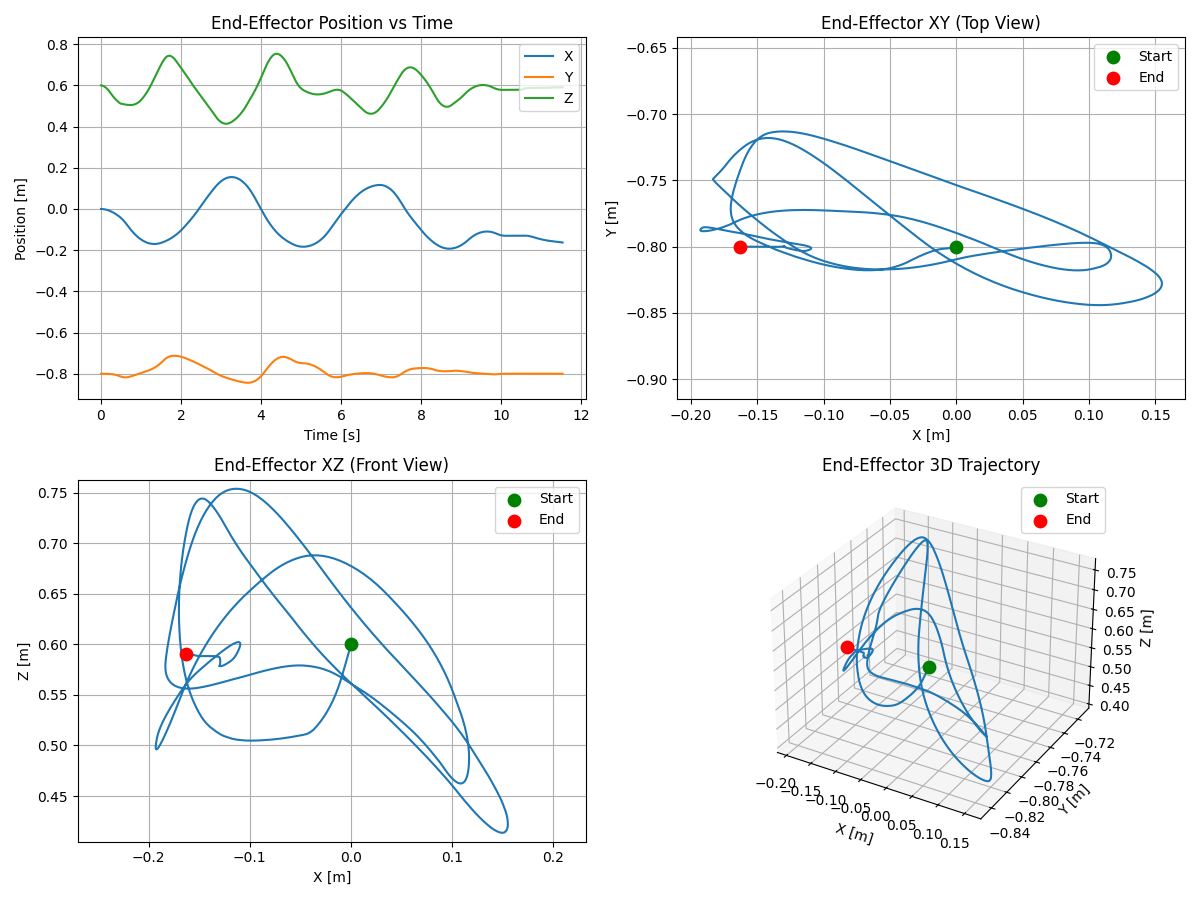
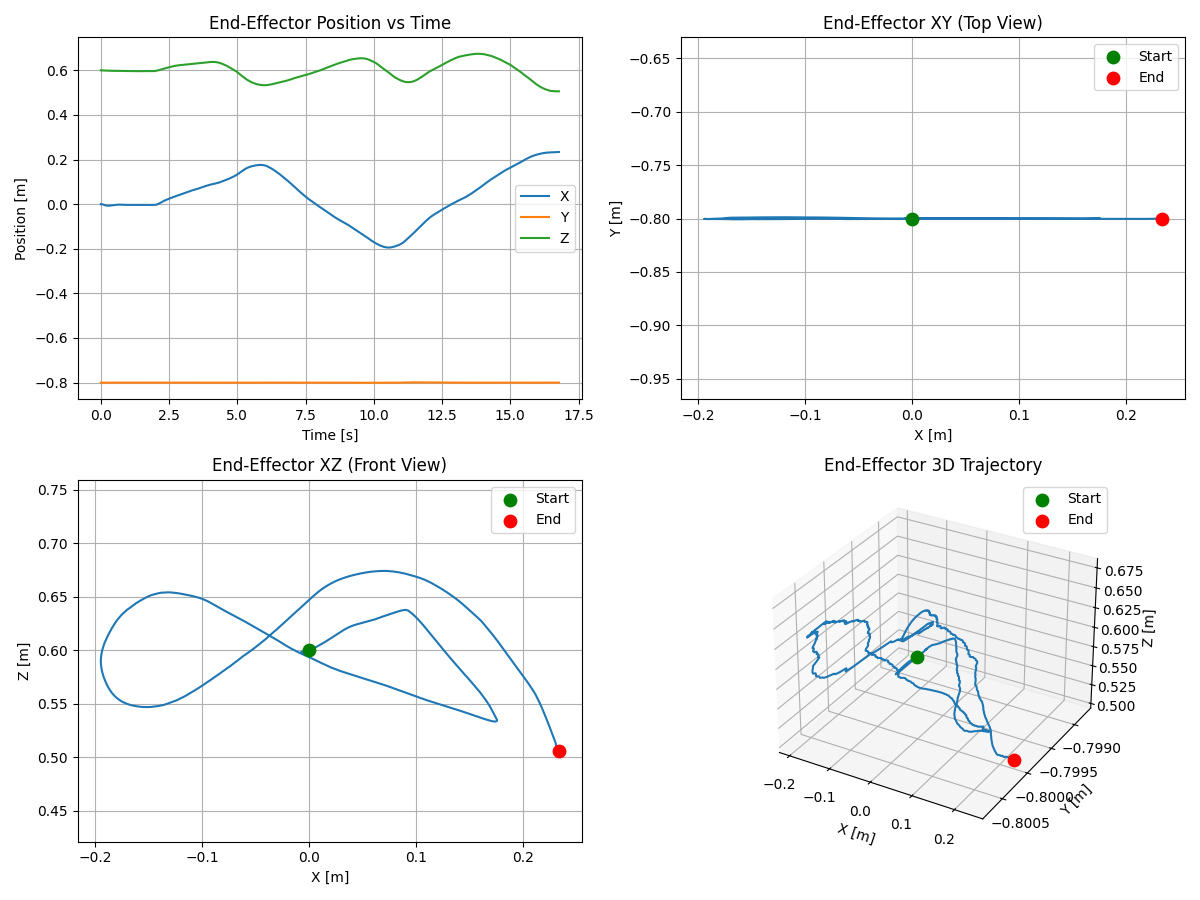
changed mpc solver to be faster

diff --git a/src/mpc.py b/src/mpc.py
@@ -163,38 +163,28 @@ class MPC(object):
         self.con_ub = ca.vertcat(con_eq_ub, *con_ineq_ub)
 
         # Build NLP Solver (can also solve QP)
-        nlp = dict(x=opt_var, f=obj, g=con, p=param_s)
-        options = {
-            'ipopt.print_level': 0,
-            'print_time': False,
-            'verbose': False,
-            # 'expand': True
+        solver_dict = dict(x=opt_var, f=obj, g=con, p=param_s)
+        qp_opts = {
+            'max_iter': 20,
+            'error_on_fail': False,
+            'print_header': False,
+            'print_iter': False
         }
-        # EXTRA: explore these options!
-        # qp_opts = {
-        #     'max_iter': 10,
-        #     'error_on_fail': False,
-        #     'print_header': False,
-        #     'print_iter': False
-        # }
-        # options = {
-        #     'max_iter': 3,
-        #     'qpsol': 'qrqp',
-        #     "jit": False,
-        #     "jit_options": {'compiler': 'ccache gcc',
-        #                     'flags': ["-O2", "-pipe"]},
-        #     'compiler': 'shell',
-        #     # 'convexify_strategy': '',
-        #     'convexify_margin': 1e-5,
-        #     'jit_temp_suffix': False,
-        #     'print_header': False,
-        #     'print_time': False,
-        #     'print_iteration': False,
-        #     'qpsol_options': qp_opts
-        # }
+
+        options = {
+            'max_iter': 5,
+            'qpsol': 'qrqp',
+            'qpsol_options': qp_opts,
+            'convexify_margin': 1e-4,
+            'print_header': False,
+            'print_iteration': False,
+            'print_status': False,
+            'print_time': False,
+            'error_on_fail': False,
+        }
         if solver_opts is not None:
             options.update(solver_opts)
-        self.solver = ca.nlpsol('mpc_solver', 'ipopt', nlp, options)
+        self.solver = ca.nlpsol('mpc_solver', 'sqpmethod', solver_dict, options)
 
         # u_ref_solver initialization
         u_ref_i = ca.MX.sym('u_ref_i', self.Nu)
@@ -203,11 +193,8 @@ class MPC(object):
         err = self.dynamics(x_ref_i, u_ref_i) - x_ref_i_next
         J = ca.dot(err, err)
 
-        nlp = {'x': u_ref_i, 'f': J, 'p': ca.vertcat(x_ref_i, x_ref_i_next)}
-        self.u_ref_solver = ca.nlpsol('u_ref_solver', 'ipopt', nlp, {
-            'ipopt.print_level': 0,
-            'print_time': False
-        })
+        solver_dict = {'x': u_ref_i, 'f': J, 'p': ca.vertcat(x_ref_i, x_ref_i_next)}
+        self.u_ref_solver = ca.nlpsol('u_ref_solver', 'sqpmethod', solver_dict, options)
 
         build_solver_time += time.time()
         print('\n________________________________________')

diff --git a/src/combined_main.py b/src/combined_main.py
@@ -21,7 +21,7 @@ except ImportError:
 
 # TODO: MODIFY ALL THE PARAMETERS BELOW BEFORE TESTING
 SAMPLING_RATE = 50 # Hz
-MPC_HORIZON = SAMPLING_RATE // 25 # sec = horizon_samples / sampling_rate
+MPC_HORIZON = SAMPLING_RATE // 3 # sec = horizon_samples / sampling_rate
 # The workspace offset MUST place the robot away from wrist singularities.
 # [0.5, 0.5, 0.5, 0, 0, 0] has zero rotation which aligns wrist axes (singular).
 # Adding a small rotation breaks the singularity and makes IK stable.
@@ -32,7 +32,7 @@ WORKSPACE_OFFSET = pose6_to_T([0, -0.8, 0.6, np.pi/2, 0.05, 0.05])
 #   Joints 0-1 (base, shoulder): 2.094 rad/s  (120 deg/s)
 #   Joints 2-5 (elbow, wrists):  3.142 rad/s  (180 deg/s)
 # Working limits (conservative for safety):
-VJ = 0.7   # rad/s  -- uniform working velocity limit for MPC
+VJ = 0.9   # rad/s  -- uniform working velocity limit for MPC
 AJ = 1   # rad/s² -- uniform working acceleration limit for MPC
 
 # Per-joint working velocity limits (rad/s).

diff --git a/src/tracking.py b/src/tracking.py
@@ -706,7 +706,6 @@ class GUI:
 
             T = self.local_pose_to_base_transform(position)
             joints = self._ik_robot.IK("elbow_up_2", T)
-            print(joints)
             return joints
         except:
             return None
